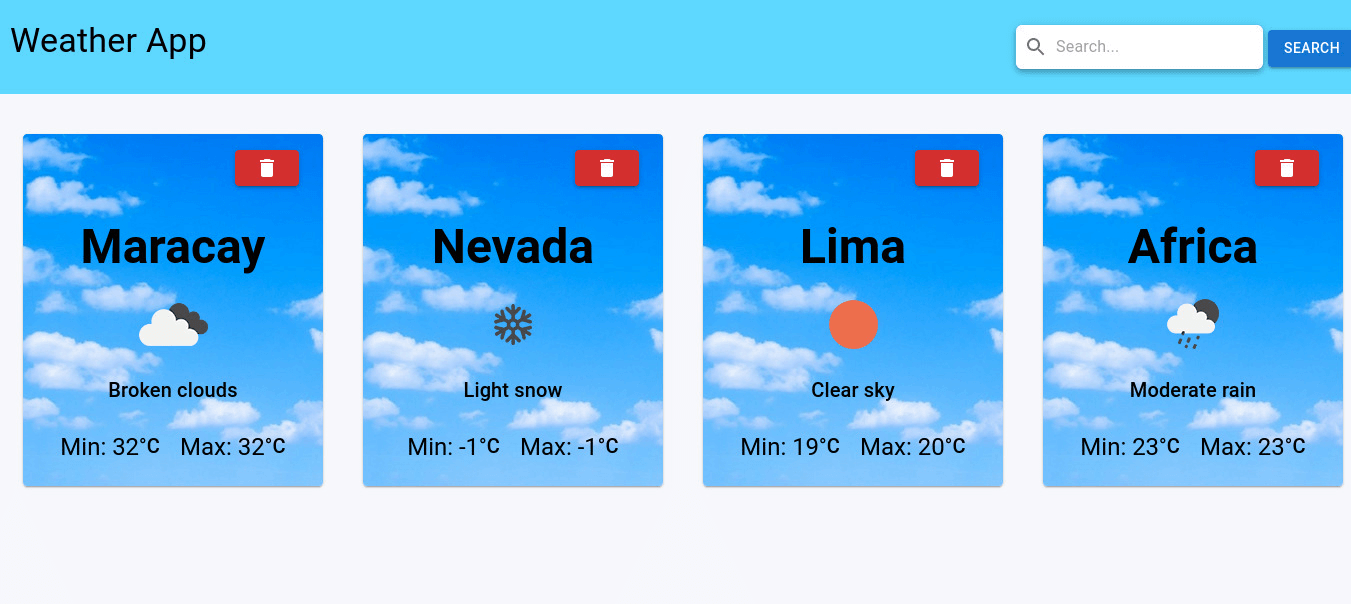
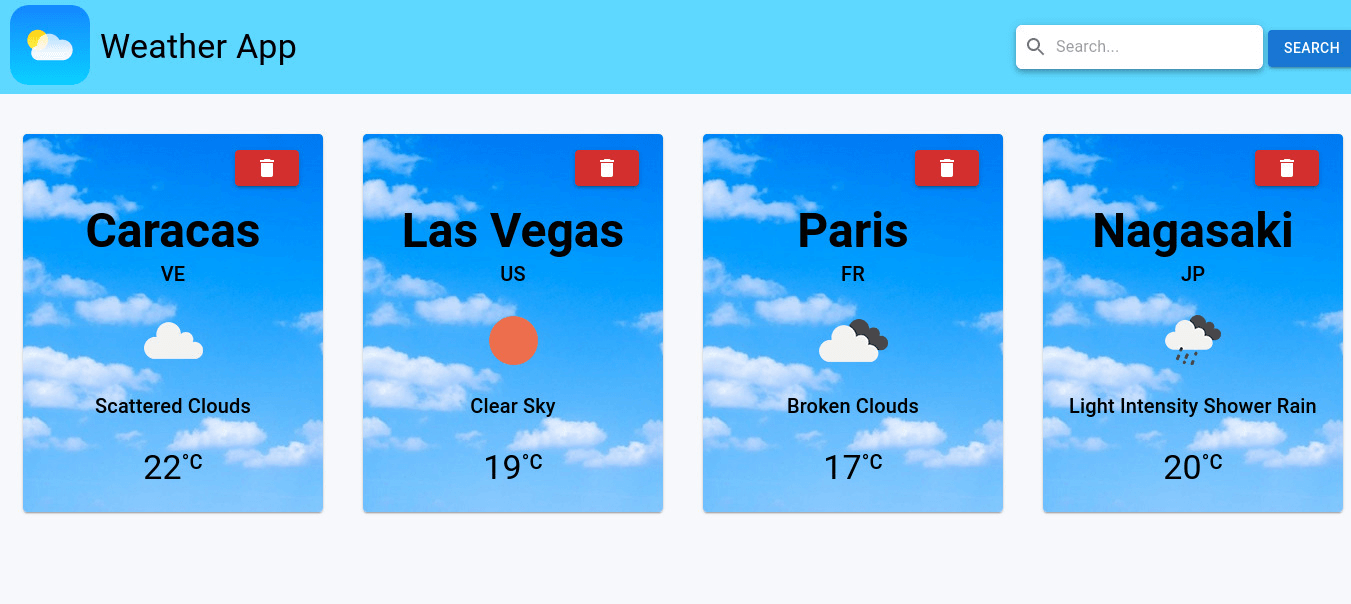
cambios menores de css

Changed region(s): [[0.0, 0.2086, 0.9948, 0.8642], [0.0, 0.0, 0.2176, 0.149], [0.9326, 0.4768, 0.9948, 0.596]]

diff --git a/src/App.tsx b/src/App.tsx
@@ -6,43 +6,43 @@ import { City } from "./utils/Interfaces";
 import Loader from "./components/Loader/Loader";
 import "./App.css";
 
-function App() {
+const App = (): JSX.Element => {
   const [cities, setCities] = useState<City[]>([]);
   const [loading, setLoading] = useState<boolean>(false);
   const apiKey = process.env.REACT_APP_API_KEY;
-  function onSearch(ciudad: string) {
+  function onSearch(city: string) {
     setLoading(true);
     fetch(
-      `https://api.openweathermap.org/data/2.5/weather?q=${ciudad}&appid=${apiKey}&units=metric`
+      `https://api.openweathermap.org/data/2.5/weather?q=${city}&appid=${apiKey}&units=metric`
     )
       .then((r) => {
         return r.json();
       })
-      .then((recurso) => {
-        if (recurso.main !== undefined) {
+      .then((resource) => {
+        if (resource.main !== undefined) {
           setLoading(false);
-          const ciudad: City = {
-            min: Math.round(recurso.main.temp_min),
-            max: Math.round(recurso.main.temp_max),
-            img: recurso.weather[0].icon,
-            id: recurso.id,
-            wind: recurso.wind.speed,
-            temp: Math.round(recurso.main.temp),
-            name: recurso.name,
-            weather: recurso.weather[0].main,
-            weatherDesc: recurso.weather[0].description,
-            clouds: recurso.clouds.all,
-            latitud: recurso.coord.lat,
-            longitud: recurso.coord.lon,
-            country: recurso.sys.country,
-            pressure: recurso.main.pressure,
-            humidity: recurso.main.humidity,
+          const city: City = {
+            min: Math.round(resource.main.temp_min),
+            max: Math.round(resource.main.temp_max),
+            img: resource.weather[0].icon,
+            id: resource.id,
+            wind: resource.wind.speed,
+            temp: Math.round(resource.main.temp),
+            name: resource.name,
+            weather: resource.weather[0].main,
+            weatherDesc: resource.weather[0].description,
+            clouds: resource.clouds.all,
+            latitud: resource.coord.lat,
+            longitud: resource.coord.lon,
+            country: resource.sys.country,
+            pressure: resource.main.pressure,
+            humidity: resource.main.humidity,
           };
           const searchId: City | undefined = cities.find(
-            (city: City) => city.id === recurso.id
+            (city: City) => city.id === resource.id
           );
           if (!searchId) {
-            setCities((oldCities: City[]) => [...oldCities, ciudad]);
+            setCities((oldCities: City[]) => [...oldCities, city]);
           }
         } else {
           swal("Error", "City not found", "error").then(() =>
@@ -84,6 +84,6 @@ function App() {
       </Navbar>
     </div>
   );
-}
+};
 
 export default App;

diff --git a/src/components/Card/Card.tsx b/src/components/Card/Card.tsx
@@ -1,9 +1,8 @@
 import React from "react";
 import { City } from "../../utils/Interfaces";
-import { capitalizeText } from "../../utils";
-import style from "./Card.module.css";
 import { Card, Box, CardContent, Typography, Button } from "@mui/material";
 import DeleteIcon from "@mui/icons-material/Delete";
+import style from "./Card.module.css";
 
 interface CityCardsProps extends City {
   onClose: () => void;
@@ -18,25 +17,18 @@ const CardItem: React.FC<CityCardsProps> = ({
   country,
   temp,
   onClose,
-}) => {
+}): JSX.Element => {
   return (
     <div key={id}>
       <Card sx={{ px: 1 }} className={style.background}>
-        <CardContent sx={{ display: "flex", justifyContent: "right" }}>
+        <CardContent
+          sx={{ display: "flex", justifyContent: "right", paddingBottom: 0 }}
+        >
           <Button onClick={onClose} variant="contained" color="error">
             <DeleteIcon />
           </Button>
         </CardContent>
-        <CardContent
-          sx={{
-            display: "flex",
-            flexDirection: "column",
-            textAlign: "center",
-            alignItems: "center",
-            justifyContent: "center",
-            color: "#000",
-          }}
-        >
+        <CardContent className={style.data_container}>
           <Typography variant="h3" sx={{ fontWeight: "700" }} noWrap>
             {name}
           </Typography>
@@ -48,8 +40,8 @@ const CardItem: React.FC<CityCardsProps> = ({
             src={`http://openweathermap.org/img/wn/${img}@2x.png`}
             title={weather}
           />
-          <Typography variant="h6" noWrap>
-            {capitalizeText(weatherDesc as string)}
+          <Typography variant="h6" className={style.capitalize_text} noWrap>
+            {weatherDesc}
           </Typography>
           <Box sx={{ pt: 3 }}>
             <div style={{ display: "flex", flexDirection: "row" }}>

diff --git a/src/components/Card/Card.module.css b/src/components/Card/Card.module.css
@@ -1,29 +1,3 @@
-.cardContainer {
-  /* margin: 0 auto; */
-  /* background: radial-gradient(
-    circle,
-    rgba(225, 226, 31, 1) 20%,
-    rgba(17, 208, 237, 1) 80%
-  ); */
-  /* background: radial-gradient(
-    circle,
-    rgb(199, 199, 11) 20%,
-    rgb(6, 158, 182) 80%
-  ); */
-  background-image: url("../../assets/img/sky-background-on-sunrise.jpg");
-  background-size: cover;
-  background-repeat: no-repeat;
-  background-position: center;
-  margin: 10px;
-  position: relative;
-  /* min-width: 300px; */
-  /* max-width: 500px; */
-  width: 300px;
-  padding: 10px;
-  border-radius: 16px;
-  box-shadow: 8px 8px 8px rgba(0, 0, 0, 0.4);
-}
-
 .background {
   background-image: url("../../assets/img/clouds2.jpg");
   background-size: cover;
@@ -31,39 +5,15 @@
   background-position: center;
 }
 
-.cardContainer h4 {
-  margin-top: 30px;
-  font-size: 35px;
-  font-weight: bold;
-  color: #fff;
+.data_container {
+  display: flex;
+  flex-direction: column;
+  justify-content: center;
+  align-items: center;
+  /* text-align: center; */
+  color: #000;
 }
 
-.close_button {
-  border: none;
-  cursor: pointer;
-  position: absolute;
-  top: 0.5rem;
-  right: 0.5rem;
-  margin: 10px;
-  background-color: #ee3d3f;
-  color: #fff;
-  font-size: 18px;
-  width: 35px;
-  height: 35px;
-  padding: 5px;
-  border-radius: 8px;
-}
-
-.grid {
-  margin-top: 40px;
-  display: grid;
-  grid-template-columns: 1fr 1fr;
-  padding: 10px;
-}
-
-.cardContainer .grid div {
-  font-weight: bold;
-  font-size: 25px;
-  color: #fff;
-  /* text-decoration: underline red; */
+.capitalize_text {
+  text-transform: capitalize;
 }

diff --git a/src/components/Navbar/Navbar.tsx b/src/components/Navbar/Navbar.tsx
@@ -8,19 +8,14 @@ const Navbar = ({
   onSearch,
   children,
 }: {
-  onSearch: (ciudad: string) => void;
+  onSearch: (city: string) => void;
   children: JSX.Element;
 }) => {
   return (
     <React.Fragment>
       <nav className={style.container}>
         <div
-          style={{
-            display: "flex",
-            flexDirection: "row",
-            justifyContent: "center",
-            alignItems: "center",
-          }}
+          className={style.container_title}
         >
           <div className={style.logo_styles}>
             <WeatherSvg dimension={80} />

diff --git a/src/components/SearchBar/SearchBar.tsx b/src/components/SearchBar/SearchBar.tsx
@@ -3,7 +3,7 @@ import { Input, Button, InputAdornment } from "@mui/material";
 import SearchIcon from "@mui/icons-material/Search";
 import style from "./SearchBar.module.css";
 
-const SearchBar = ({ onSearch }: { onSearch: (ciudad: string) => void }) => {
+const SearchBar = ({ onSearch }: { onSearch: (city: string) => void }) => {
   const [city, setCity] = useState<string>("");
   const handleInputChange = (e: React.ChangeEvent<HTMLInputElement>): void => {
     e.preventDefault();

diff --git a/src/components/Navbar/Navbar.module.css b/src/components/Navbar/Navbar.module.css
@@ -1,4 +1,4 @@
-.container{
+.container {
   padding: 0 10px 0 10px;
   background-color: #5ed8ff;
   margin-bottom: 40px;
@@ -17,4 +17,11 @@
   margin-top: 5px;
   margin-bottom: 5px;
   margin-right: 10px;
+}
+
+.container_title {
+  display: flex;
+  flex-direction: row;
+  justify-content: center;
+  align-items: center;
 }

diff --git a/src/components/Cards/Cards.tsx b/src/components/Cards/Cards.tsx
@@ -8,7 +8,7 @@ interface CityCardsProps {
   cities: City[];
 }
 
-const Cards: React.FC<CityCardsProps> = ({ cities, onClose }) => {
+const Cards: React.FC<CityCardsProps> = ({ cities, onClose }): JSX.Element => {
   if (cities.length > 0) {
     return (
       <div className={style.cardsContainer}>

diff --git a/README.md b/README.md
@@ -29,13 +29,11 @@ Una vez realizado todos los cambios deseados con este comando crearas un bundle 
 
 ## Despliegue 📦
 
-Podrás visitar mi portafolio en el siguiente [enlace](https://weather-app-fawn-theta.vercel.app/)
+Podrás visitar la aplicación en el siguiente [enlace](https://weather-app-fawn-theta.vercel.app/)
 
 ## Construido con 🛠
 
 HTML, CSS, JavaScript, TypeScript, React, Material-UI.
-
-El formulario de contacto se conecta a un api externa para guardar los datos en una base de datos, desarrollada con Node, Express y MongoDB.
 
 <img src="./public/miniatura.png"/>
 
